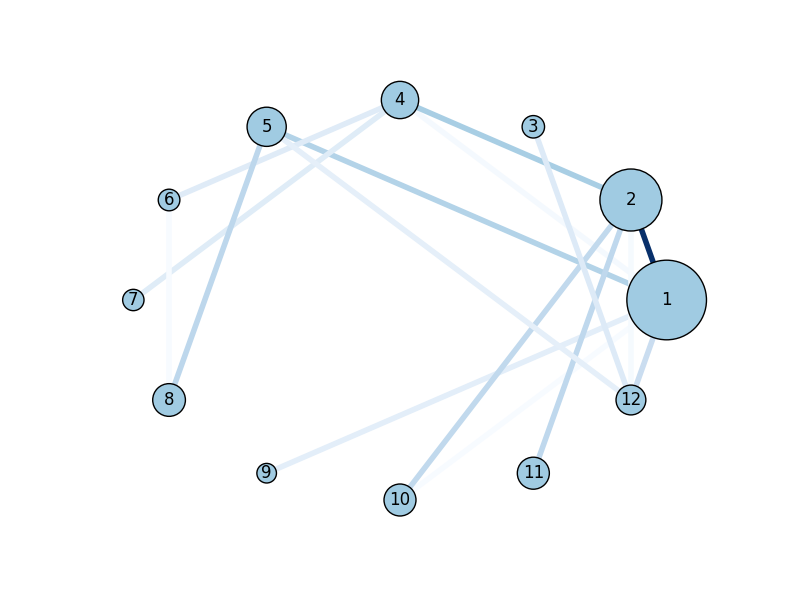
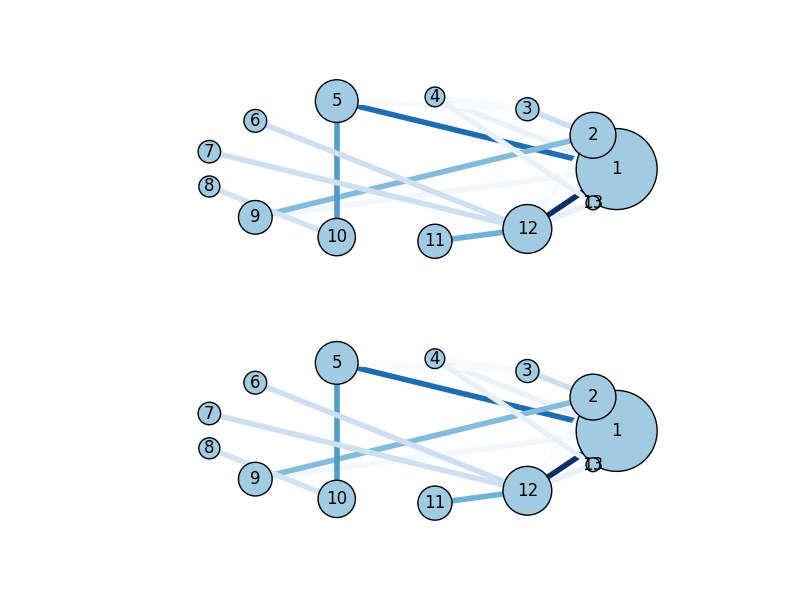
many plots example

diff --git a/data-processing/topologyProcessor.py b/data-processing/topologyProcessor.py
@@ -91,13 +91,13 @@ class TopologyLogProcessor(LogProcessor):
         #print(pos)
 
         colors = [data[2] for data in l]
-        nx.draw(G,pos, node_color='#A0CBE2', node_size=w_nodes ,edge_color=colors, width=4, edge_cmap=plt.cm.Blues, with_labels=True)
+        nx.draw(G, pos, node_color='#A0CBE2', node_size=w_nodes ,edge_color=colors, width=4, edge_cmap=plt.cm.Blues, with_labels=True)
 
 if __name__ == '__main__':
 
-    folder = gl_dump_path + 'tdma/'
+    folder = gl_dump_path
 
-    p = TopologyLogProcessor(filename=folder+'no_interference.log')
+    p = TopologyLogProcessor(filename=folder+'/no_interference.log')
 
     motes,node_occurrences=p.get_seen_nodes()
     links,link_occurrences=p.get_seen_links()
@@ -128,7 +128,15 @@ if __name__ == '__main__':
     #print(pos)
 
     colors = [data[2] for data in l]
-    nx.draw(G,pos, node_color='#A0CBE2', node_size=w_nodes ,edge_color=colors, width=4, edge_cmap=plt.cm.Blues, with_labels=True)
+
+    # create subplots
+    f, axs = plt.subplots(2, sharex=True)
+
+    # pass the axis as a parameter
+    nx.draw(G, pos, ax=axs[0], node_color='#A0CBE2', node_size=w_nodes ,edge_color=colors, width=4, edge_cmap=plt.cm.Blues, with_labels=True)
+
+    nx.draw(G, pos, ax=axs[1], node_color='#A0CBE2', node_size=w_nodes ,edge_color=colors, width=4, edge_cmap=plt.cm.Blues, with_labels=True)
+
     plt.savefig("images/edge_colormap.png")  # save as png
     plt.show()  # display
 

diff --git a/data-processing/basicProcessor.py b/data-processing/basicProcessor.py
@@ -17,8 +17,8 @@ from helperFunctions import find_latest_dump
 from topologyProcessor import TopologyLogProcessor
 
 gl_mote_range = range(1, 14)
-# gl_dump_path = os.getenv("HOME") + '/Projects/TSCH/github/dumps/'
-gl_dump_path = os.getcwd() + '/../' + 'shared/'
+gl_dump_path = os.getenv("HOME") + '/Projects/TSCH/github/dumps/'
+# gl_dump_path = os.getcwd() + '/../' + 'shared/'
 gl_image_path = os.getenv("HOME") + ''
 
 
@@ -155,8 +155,8 @@ if __name__ == '__main__':
 
     folder = gl_dump_path
 
-    # filename = folder+find_latest_dump(folder)
-    filename=folder+'no_interference.log'
+    filename = folder+find_latest_dump(folder)
+    # filename=folder+'no_interference.log'
     print('Creating a processor for %s' % filename)
 
     p = BasicProcessor(filename=filename)
@@ -169,7 +169,9 @@ if __name__ == '__main__':
     p.plot_avg_hops()
     p.plot_retx()
 
+    plt.show()
 
+"""
     filename=folder+'induced_interference.log'
     print('Creating a processor for %s' % filename)
 
@@ -186,6 +188,8 @@ if __name__ == '__main__':
     print(['%.2f' % (y/x, ) for x, y in zip(means_without, means_with)])
 
     plt.show()
+"""
+
 
 
 
